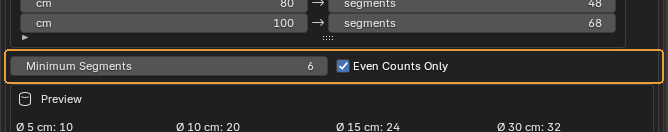
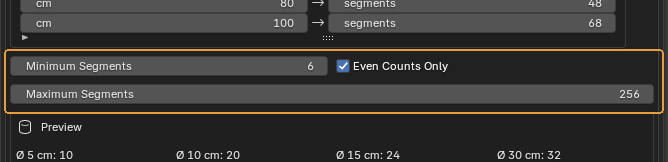
Показать Smart Cylinder в работе и догнать 1.6.2
Две записи экрана в обзоре: как цилиндры собираются по правилу и как
перестраивается уже готовая деталь — с открытым редактором UV, потому что
сохранность развёртки и есть главный вопрос к такому инструменту.

Записи пережаты с 25 и 17 МБ до 2.6 и 1.6: ширина под колонку документации,
одна палитра на всю запись вместо своей на каждый кадр, без дизеринга (шум
на плоской заливке вьюпорта ломает межкадровые дельты), паузы схлопнуты в
кадр с суммарной длительностью.

Аддон тем временем ушёл на 1.6.2: у числа сечений появился потолок Maximum
Segments рядом с минимумом, а отчёт научился писать "capped: check the object
scale" — форма, упирающаяся в потолок, почти всегда лежит в сцене не в том
масштабе. Снимки настроек пересняты на 1.6.2, справочник и таблица версий
поправлены, в историю добавлены 1.6.1 и 1.6.2.

diff --git a/docs/qc-smart-cylinder/reference.md b/docs/qc-smart-cylinder/reference.md
@@ -148,7 +148,7 @@
 
 Построчно: что аддон нашёл и что с этим сделал. По строке на форму.
 
-**Когда пригодится.** Читать всегда, а не только когда что-то пошло не так. `40 cm, 36 → 82` — диаметр, было и стало; `already right` — форма и так правильная, её не трогали; `no cylindrical form` — аддон ничего не узнал и **ничего не испортил**.
+**Когда пригодится.** Читать всегда, а не только когда что-то пошло не так. `40 cm, 36 → 82` — диаметр, было и стало; `already right` — форма и так правильная, её не трогали; `no cylindrical form` — аддон ничего не узнал и **ничего не испортил**; `capped: check the object scale` — число упёрлось в потолок из настроек, и это почти всегда неверный масштаб объекта, а не исполинская деталь.
 
 !!! warning "Обратите внимание"
     Строк показывается не больше двенадцати, остальные сворачиваются в «… and N more». Не узнаны бывают формы, приваренные к остальной геометрии, меши с shape keys и замкнутые кольца секций — это известные границы, а не поломка.
@@ -172,15 +172,20 @@
 !!! warning "Обратите внимание"
     Таблица живёт в настройках Blender, а не в файле сцены: она общая для всех сцен на этой машине и переживает перезапуск. Если правите таблицу под конкретный проект, помните, что соседний проект на той же машине увидит те же значения.
 
-### Minimum Segments и Even Counts Only
+### Minimum, Maximum Segments и Even Counts Only
 
-![Minimum Segments и Even Counts Only](img/c/prefs-limits.png){ .control-shot }
+![Minimum, Maximum Segments и Even Counts Only](img/c/prefs-limits.png){ .control-shot }
 
-Нижняя граница числа сечений и округление до чётного.
+Границы числа сечений снизу и сверху и округление до чётного.
 
 **Когда пригодится.** Минимум держит совсем мелкие детали от вырождения: без него правило на диаметре 2 см выдало бы четырёхгранник. Чётность нужна, чтобы цилиндр остался симметричным по обеим осям — так его проще резать пополам и зеркалить.
 
-**По умолчанию:** минимум 6, чётность включена
+**Что получится.** Максимум — страховка от неверного масштаба. Ассет, у которого сантиметры прочитаны как метры, даёт кнопку «диаметром» в двадцать метров, и правило честно насчитывает ей больше тысячи сечений на кольцо. Теперь такая форма упирается в потолок, а в отчёте появляется `capped: check the object scale`.
+
+**По умолчанию:** минимум 6, максимум 256, чётность включена
+
+!!! warning "Обратите внимание"
+    На **Manual Segments** потолок не действует: если число назначено руками, значит его и хотели.
 
 ### Preview
 
@@ -192,4 +197,4 @@
 
 ---
 
-*Страница собрана из файла `content/qc-smart-cylinder.ru.yml`. Снимки сделаны в **QC Smart Cylinder 1.6.0**.*
+*Страница собрана из файла `content/qc-smart-cylinder.ru.yml`. Снимки сделаны в **QC Smart Cylinder 1.6.2**.*

diff --git a/docs/qc-smart-cylinder/reference.en.md b/docs/qc-smart-cylinder/reference.en.md
@@ -148,7 +148,7 @@ Overrule the rule and rebuild with the count typed in by hand.
 
 Line by line: what the add-on found and what it did with it. One line per form.
 
-**When you need it.** Worth reading always, not only when something went wrong. `40 cm, 36 → 82` is the diameter, before and after; `already right` means the form was correct and was left alone; `no cylindrical form` means the add-on recognised nothing and **broke nothing**.
+**When you need it.** Worth reading always, not only when something went wrong. `40 cm, 36 → 82` is the diameter, before and after; `already right` means the form was correct and was left alone; `no cylindrical form` means the add-on recognised nothing and **broke nothing**; `capped: check the object scale` means the count hit the ceiling from the preferences, and that is almost always a wrong object scale rather than a colossal part.
 
 !!! warning "Worth knowing"
     At most twelve lines are shown; the rest collapse into "… and N more". Forms welded to the rest of the geometry, meshes with shape keys and closed rings of sections are the ones that go unrecognised — these are known limits, not a fault.
@@ -172,15 +172,20 @@ The rule itself: how many segments at which diameter. The rows are anchor points
 !!! warning "Worth knowing"
     The table lives in Blender's preferences, not in the scene file: it is shared by every scene on this machine and survives a restart. If you tailor it to one project, remember that the next project on the same machine sees the same numbers.
 
-### Minimum Segments and Even Counts Only
+### Minimum, Maximum Segments and Even Counts Only
 
-![Minimum Segments and Even Counts Only](img/c/prefs-limits.png){ .control-shot }
+![Minimum, Maximum Segments and Even Counts Only](img/c/prefs-limits.png){ .control-shot }
 
-The floor under the segment count, and rounding to an even number.
+The floor and the ceiling under the segment count, and rounding to an even number.
 
 **When you need it.** The minimum keeps very small parts from degenerating: without it the rule would hand a 2 cm diameter a four-sided shape. Even counts keep the cylinder symmetric on both axes, which makes it easier to cut in half and mirror.
 
-**Default:** minimum 6, even counts on
+**What happens.** The maximum is insurance against a wrong scale. An asset whose centimetres were read as metres gives you a button twenty metres across, and the rule dutifully works out over a thousand segments per ring. Such a form now stops at the ceiling, and the report says `capped: check the object scale`.
+
+**Default:** minimum 6, maximum 256, even counts on
+
+!!! warning "Worth knowing"
+    The ceiling does not apply to **Manual Segments**: a count set by hand is a count someone wanted.
 
 ### Preview
 
@@ -192,4 +197,4 @@ What the rule gives at eight representative diameters.
 
 ---
 
-*Assembled from `content/qc-smart-cylinder.en.yml`. Screenshots taken in **QC Smart Cylinder 1.6.0**.*
+*Assembled from `content/qc-smart-cylinder.en.yml`. Screenshots taken in **QC Smart Cylinder 1.6.2**.*

diff --git a/docs/qc-smart-cylinder/index.md b/docs/qc-smart-cylinder/index.md
@@ -47,6 +47,11 @@
 любых единицах: наберите `40 cm`, Blender переведёт сам. Масштаб сцены аддон
 учитывает.
 
+![Как это выглядит в работе](img/new-cylinder.gif){ .screenshot }
+
+На записи цилиндры собираются один за другим: диаметр меняется — число сечений
+идёт следом, и на готовой детали плотность сетки везде одна.
+
 !!! note "Длина ребра — не украшение"
     По ней видно, работает правило или вы забрели за край таблицы. На любых
     разумных диаметрах она держится в пределах 1,5–5 см. Если резко
@@ -65,6 +70,11 @@
 считает каждую по её собственному диаметру и сшивает соседние секции
 треугольными мостами. Токарная деталь, труба с переходом, стержень с
 утолщением — всё это чинится за один вызов.
+
+![Перестройка готовой детали](img/fix-selected.gif){ .screenshot }
+
+Слева на записи открыт редактор UV. Деталь перестраивается целиком — а
+развёртка на месте: острова те же, швы там же, где были.
 
 Что при этом сохраняется:
 
@@ -86,6 +96,7 @@
 | `40 cm, 36 → 82` | Диаметр, было сечений и стало |
 | `36 already right` | Форма и так правильная, её не тронули |
 | `no cylindrical form` | Аддон ничего не узнал — и ничего не испортил |
+| `capped: check the object scale` | Упёрлись в потолок сечений. Почти всегда это не огромная деталь, а неверный масштаб объекта |
 
 ## Правило живёт в настройках
 
@@ -99,6 +110,10 @@
 
 Студийные значения: 10 см → 20, 20 → 28, 40 → 36, 60 → 40, 80 → 48, 100 → 68.
 Кнопкой со стрелкой их всегда можно вернуть.
+
+Под таблицей — границы: **Minimum Segments** (6), **Maximum Segments** (256) и
+чётность. Потолок нужен не ради экономии: форма, которая в него упирается,
+почти всегда лежит в сцене не в том масштабе.
 
 !!! warning "Таблица общая для всех сцен"
     Она живёт в настройках Blender, а не в файле сцены. Поправите под один

diff --git a/docs/qc-smart-cylinder/index.en.md b/docs/qc-smart-cylinder/index.en.md
@@ -48,6 +48,12 @@ not a setting.
 The diameter is a diameter, not a radius, as in the studio table. Type any unit
 you like: enter `40 cm` and Blender converts it. The scene scale is honoured.
 
+![What it looks like in use](img/new-cylinder.gif){ .screenshot }
+
+In the recording the cylinders are built one after another: the diameter
+changes, the segment count follows, and the finished part has one mesh density
+throughout.
+
 !!! note "The edge length is not decoration"
     It tells you whether the rule is working or you have wandered off the end
     of the table. At any sensible diameter it stays between roughly 1.5 and
@@ -66,6 +72,11 @@ one count along its whole length: the add-on splits it into sections where the
 diameter changes, gives each the count its own diameter calls for, and stitches
 neighbouring sections together with triangle bridges. A lathed part, a pipe
 with a reduction, a rod with a thicker end — all handled in one call.
+
+![Rebuilding a finished part](img/fix-selected.gif){ .screenshot }
+
+The UV editor is open on the left of the recording. The part is rebuilt whole —
+and the unwrap is still there: the same islands, the seams where they were.
 
 What survives the rebuild:
 
@@ -87,6 +98,7 @@ Worth reading always, not only when something went wrong:
 | `40 cm, 36 → 82` | The diameter, the count before and after |
 | `36 already right` | The form was correct and was left alone |
 | `no cylindrical form` | The add-on recognised nothing — and broke nothing |
+| `capped: check the object scale` | The segment ceiling was hit. Almost always that means a wrong object scale, not a huge part |
 
 ## The rule lives in the preferences
 
@@ -100,6 +112,10 @@ nearest anchor is kept.
 
 The studio values: 10 cm → 20, 20 → 28, 40 → 36, 60 → 40, 80 → 48, 100 → 68.
 The arrow button always brings them back.
+
+Below the table are the limits: **Minimum Segments** (6), **Maximum Segments**
+(256) and even rounding. The ceiling is not there to save polygons: a form that
+hits it is almost always sitting in the scene at the wrong scale.
 
 !!! warning "The table is shared by every scene"
     It lives in Blender's preferences, not in the scene file. Tailor it to one

diff --git a/docs/changelog.en.md b/docs/changelog.en.md
@@ -11,7 +11,7 @@ The versions these docs were built from. The number in the add-on's panel header
 | QC Bridge Maya-Blender by Mutaform | `1.3.0` | Blender 4.2+ and Maya 2025 |
 | QC Bake for Maya | `1.2.4` | Maya 2025 |
 | Modular Environment Tools | `2.15.0` | Blender 4.2+ |
-| QC Smart Cylinder | `1.6.0` | Blender 4.2+ |
+| QC Smart Cylinder | `1.6.2` | Blender 4.2+ |
 
 Each add-on's change history lives in its own repository; it is copied here by hand when the docs are updated.
 
@@ -473,6 +473,23 @@ remembered between sessions.
 
 _No change history was kept before 1.2.0._
 ## QC Smart Cylinder
+
+### 1.6.2
+
+The segment count gained a ceiling — **Maximum Segments**, 256 by default,
+next to the minimum in the preferences.
+
+It exists because of scale. An asset whose centimetres were read as metres
+gives you a button twenty metres across; the rule dutifully worked out over a
+thousand segments per ring, and clearing **Manual Segments** flooded the mesh.
+Such a form now stops at the ceiling and the report says `capped: check the
+object scale`. A count set by hand is never capped.
+
+### 1.6.1
+
+Cylinders whose caps are filled with a ladder of quads, without a single
+triangle, are now recognised: the loop walk used to read such a cap as a broken
+grid and the form was not found. The caps come back as one n-gon each.
 
 ### 1.6.0
 
